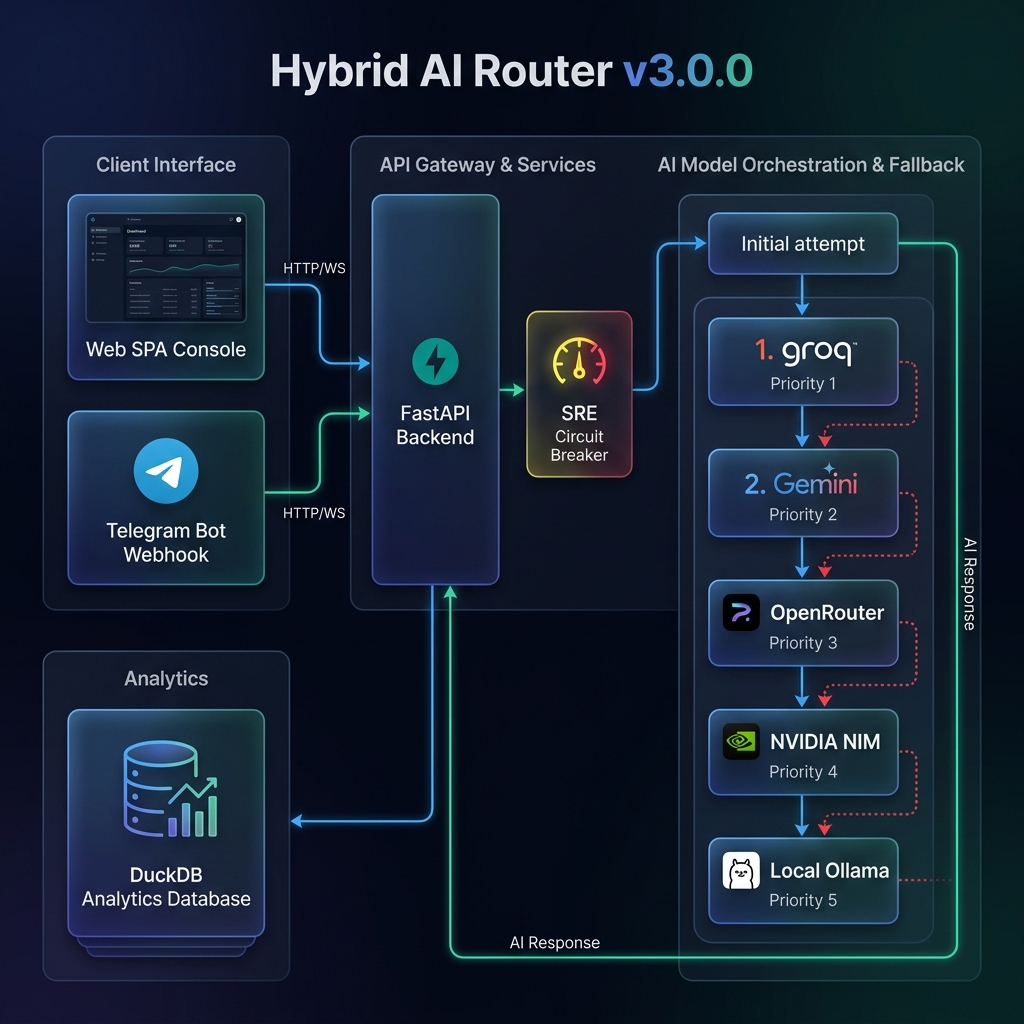
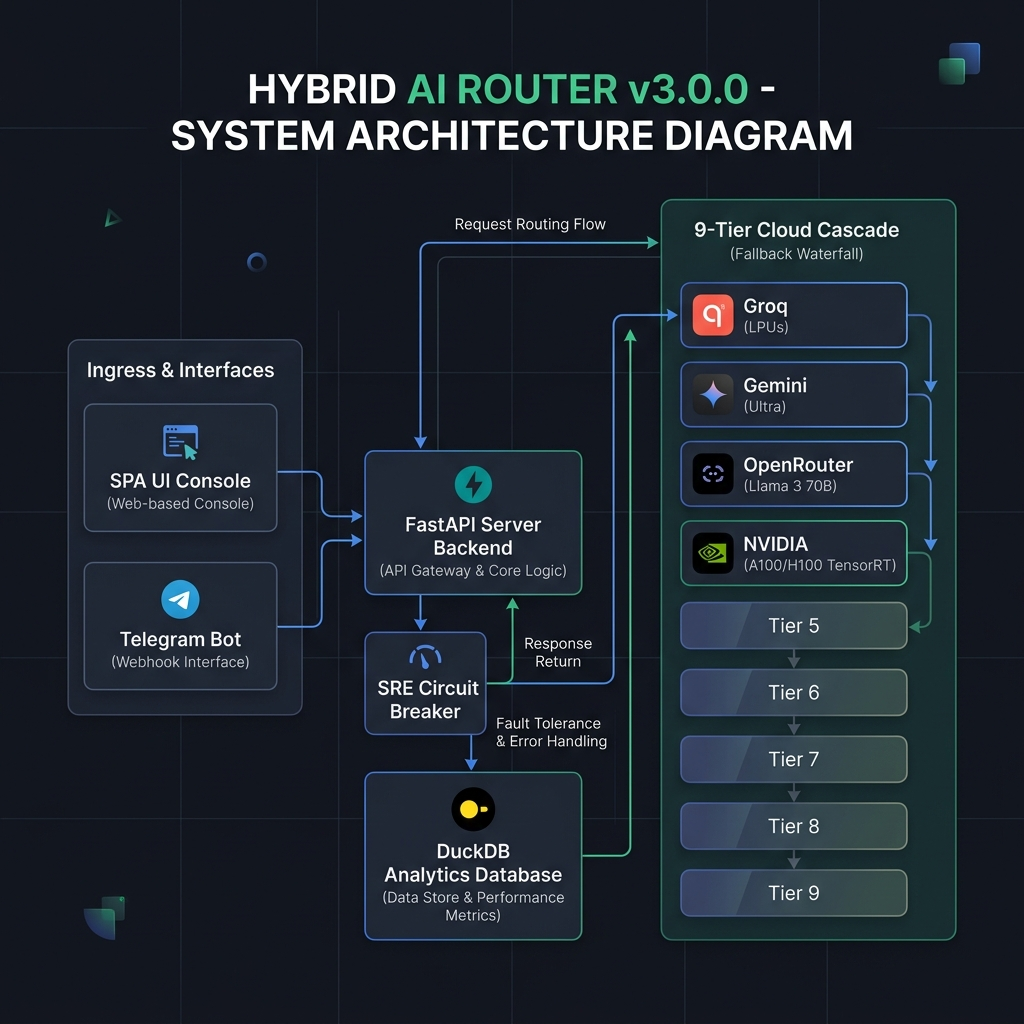
refactor: deprecate Ollama, upgrade to pure 9-Tier cloud cascade via NVIDIA NIM

diff --git a/src/router.py b/src/router.py
@@ -109,31 +109,22 @@ TIERS = [
     },
     {
         "tier": 8,
-        "name": "Ollama/Llama3.1",
-        "provider": "ollama",
-        "model": "llama3.1",
-        "url": f"{OLLAMA_HOST}/api/chat",
-        "timeout": 90,
-        "format": "ollama",
+        "name": "NVIDIA-NIM/Mistral-Nemo",
+        "provider": "nvidia",
+        "model": "mistralai/mistral-nemo-12b-instruct",
+        "url": "https://integrate.api.nvidia.com/v1/chat/completions",
+        "timeout": 15,
+        "format": "openai",
     },
     {
         "tier": 9,
-        "name": "Ollama/Qwen2.5-Coder",
-        "provider": "ollama",
-        "model": "qwen2.5-coder",
-        "url": f"{OLLAMA_HOST}/api/chat",
-        "timeout": 90,
-        "format": "ollama",
-    },
-    {
-        "tier": 10,
-        "name": "Ollama/Mistral-Nemo",
-        "provider": "ollama",
-        "model": "mistral-nemo",
-        "url": f"{OLLAMA_HOST}/api/chat",
-        "timeout": 90,
-        "format": "ollama",
-    },
+        "name": "NVIDIA-NIM/Qwen2.5-72B",
+        "provider": "nvidia",
+        "model": "qwen/qwen2.5-72b-instruct",
+        "url": "https://integrate.api.nvidia.com/v1/chat/completions",
+        "timeout": 15,
+        "format": "openai",
+    }
 ]
 
 # ============================================================
@@ -248,35 +239,6 @@ async def _call_openai_format(
         return None
 
 
-async def _call_ollama_format(
-    client: httpx.AsyncClient, tier_def: dict, messages: list
-) -> Optional[str]:
-    """Call Ollama's native /api/chat endpoint. Returns response text or None."""
-    payload = {"model": tier_def["model"], "messages": messages, "stream": False}
-
-    try:
-        resp = await client.post(
-            tier_def["url"],
-            json=payload,
-            timeout=tier_def["timeout"],
-        )
-        if resp.status_code == 200:
-            data = resp.json()
-            return data.get("message", {}).get("content")
-        else:
-            record_failure(tier_def["tier"], resp.status_code)
-            logger.warning(
-                f"[CASCADE] Tier {tier_def['tier']} ({tier_def['name']}) — HTTP {resp.status_code}"
-            )
-            return None
-    except (httpx.TimeoutException, httpx.ConnectError, httpx.ReadError) as e:
-        logger.warning(f"[CASCADE] Tier {tier_def['tier']} ({tier_def['name']}) — {type(e).__name__}: {e}")
-        return None
-    except Exception as e:
-        logger.error(f"[CASCADE] Tier {tier_def['tier']} ({tier_def['name']}) — Unexpected: {e}")
-        return None
-
-
 async def _try_tier(
     client: httpx.AsyncClient, tier_def: dict, messages: list
 ) -> Optional[str]:
@@ -288,12 +250,6 @@ async def _try_tier(
     if is_circuit_open(tier_num):
         logger.info(f"[CASCADE] Tier {tier_num} ({tier_def['name']}) — Circuit OPEN, skipping.")
         return None
-
-    if tier_def["format"] == "ollama":
-        result = await _call_ollama_format(client, tier_def, messages)
-        if result:
-            record_success(tier_num)
-        return result
 
     # OpenAI-format: rotate through available keys
     keys = _KEY_POOL.get(provider, [])

diff --git a/src/config.py b/src/config.py
@@ -63,12 +63,6 @@ PRIMARY_CLOUD_MODEL = "llama-3.3-70b-versatile"
 SECONDARY_CLOUD_MODEL = "google/gemma-4-31b-it:free"
 SAFETY_NET_MODEL = "meta/llama-3.1-8b-instruct"
 GEMINI_MODEL = "gemini-1.5-flash"
-LOCAL_MODEL_PRIMARY = "llama3.1"
-
-# Ollama (Local) Configuration
-OLLAMA_HOST = os.environ.get("OLLAMA_HOST", "http://localhost:11434")
-LOCAL_TIMEOUT = (5, 120)  # (connect_timeout, read_timeout) in seconds
-MAX_LOCAL_RETRIES = 3
 
 # Telegram Bot
 TELEGRAM_BOT_TOKEN = os.environ.get("TELEGRAM_BOT_TOKEN", "").strip()

diff --git a/retrospective.md b/retrospective.md
@@ -26,6 +26,7 @@ This document logs every critical failure, its resolution, and its eventual outc
 | 18 | 2026-05-17 | **Context Drift (Ungrounded Models)** | Implemented Ephemeral Context Grounding v2.3.0 — system prompt injected at index 0 of every outbound payload | ✅ **Stayed** | Active |
 | 19 | 2026-05-17 | **Token Wastage (Uncompacted Payloads)** | Implemented Context Compaction v2.4.0 — boilerplate stripping, 10-msg sliding window, DuckDB telemetry tracking | ✅ **Stayed** | Active |
 | 20 | 2026-05-17 | **Event Loop Blocking** | Converted `/dashboard` and `/api/v1/metrics/efficiency` endpoints from `async def` to standard `def` to offload synchronous file I/O to Starlette's background threadpool | ✅ **Stayed** | Zero-latency LLM routing restored, 9/9 baseline tests passed |
+| 21 | 2026-05-21 | **Gemini 503 & Oracle Debt** | Stripped local Ollama, rejected Oracle ARM, committed to 9-Tier Cloud Cascade | ✅ **Stayed** | Pure Cloud Simplicity |
 
 ## 🧠 Key Learnings
 1.  **Complexity is a Debt**: Every "Smart" feature (RAG, Semantic Router) adds a failure point. In high-pressure engineering, **Cascading Fallbacks** beat **Complex Classification**.
@@ -34,6 +35,7 @@ This document logs every critical failure, its resolution, and its eventual outc
 4.  **System-Prompt Governance is an SRE Primitive**: Without an enforced grounding message, downstream models produce inconsistent personas across cascade tiers. Ephemeral injection at the router layer is the cheapest, most reliable fix — zero extra latency, zero persistence overhead.
 5.  **Measure Before You Optimize**: Compaction without telemetry is guessing. DuckDB-backed metrics on every request give you the hard data to prove token savings and justify architectural decisions.
 6.  **Guard the Event Loop**: Never run blocking synchronous database or file system calls (like DuckDB file connections) inside an `async def` handler. In high-throughput ASGI environments like FastAPI, synchronous reads will freeze the event loop, causing severe latency spikes and connection resets (WinError 10054). Offload them to background threadpools using standard `def` endpoints.
+7.  **Oracle / Self-Hosting Fallacy**: The overhead of managing an "Always Free" Oracle ARM server for fallback Ollama instances introduces immense maintenance burden and idle-reclamation risks. We explicitly rejected Oracle and completely stripped out local Ollama. Gemini's unprecedented rate limit reductions act as a massive wake-up call that validates this pure-cloud, multi-provider 9-tier router model.
 
 
 ---

diff --git a/README.md b/README.md
@@ -52,7 +52,7 @@ graph TD
         CB -.->|"Context Search"| Chroma
         
         %% Cascade Router
-        subgraph Cascade ["10-Tier Hybrid Cascade Engine"]
+        subgraph Cascade ["9-Tier Hybrid Cascade Engine"]
             Tier1["1. Groq (Llama-3-70B)"]:::provider
             Tier2["2. Groq (Mixtral)"]:::provider
             Tier3["3. AI Studio (Gemini-1.5-Flash)"]:::provider
@@ -60,9 +60,8 @@ graph TD
             Tier5["5. OpenRouter (Llama-3-8B-Free)"]:::provider
             Tier6["6. OpenRouter (Phi-3-128k-Free)"]:::provider
             Tier7["7. NVIDIA NIM (Llama-3)"]:::provider
-            Tier8["8. Local Ollama (Llama-3.1)"]:::provider
-            Tier9["9. Local Ollama (Qwen2.5-Coder)"]:::provider
-            Tier10["10. Local Ollama (Mistral-Nemo)"]:::provider
+            Tier8["8. NVIDIA NIM (Mistral-Nemo)"]:::provider
+            Tier9["9. NVIDIA NIM (Qwen-2.5-72B)"]:::provider
             
             Tier1 -->|"Fallback"| Tier2
             Tier2 -->|"Fallback"| Tier3
@@ -72,7 +71,6 @@ graph TD
             Tier6 -->|"Fallback"| Tier7
             Tier7 -->|"Fallback"| Tier8
             Tier8 -->|"Fallback"| Tier9
-            Tier9 -->|"Fallback"| Tier10
         end
         
         CB -->|"Routes Payload"| Cascade
